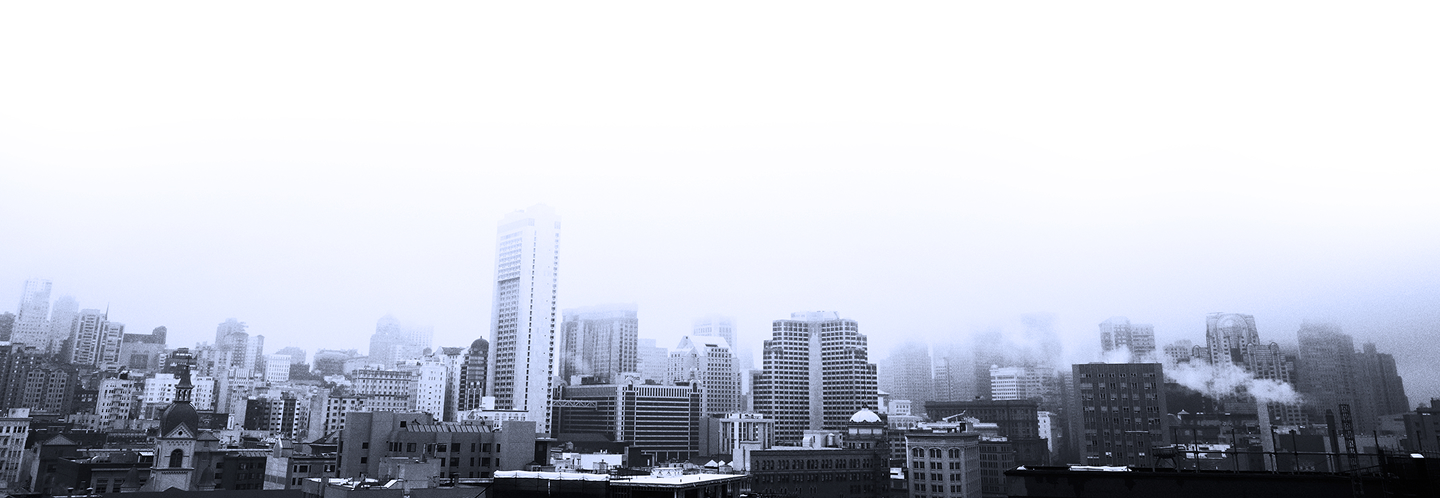
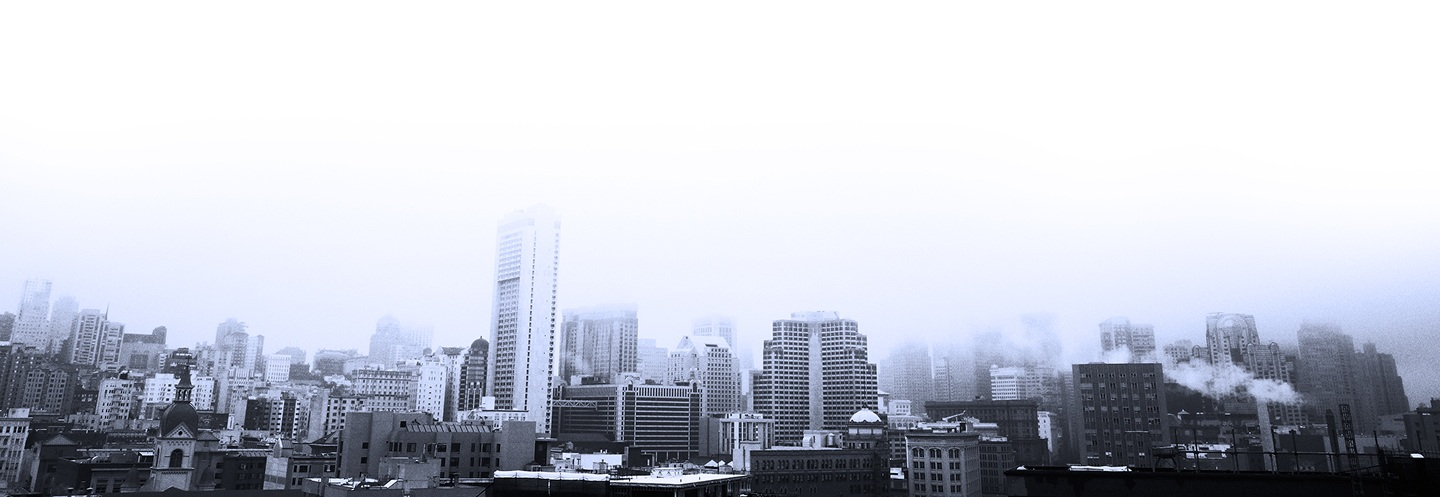
Сделан блок signup

Changed region(s): [[0.0, 0.5131, 1.0, 1.0], [0.9688, 0.7847, 1.0, 0.8451]]

diff --git a/styles/main.css b/styles/main.css
@@ -336,7 +336,7 @@ hr {
   display: flex;
   flex-direction: column;
   align-items: center;
-  background-position: center center;
+  background-position: center 100%;
 }
 
 .getintouch>h1 {
@@ -352,15 +352,51 @@ hr {
   line-height: 39px;
 }
 
+.signup {
+  width: 1440px !important;
+  height: 94px;
+  background: #171819;
+  display: flex;
+  justify-content: center;
+  align-items: center;
+}
+
+.signup>p {
+  font-family: var(--font-family-700);
+  font-size: 22px;
+  letter-spacing: 0.04em;
+  text-align: center;
+  color: #fff;
+  margin-right: 68px;
+}
+
+.signup>input {
+  border: 1px solid #979797;
+  width: 233px;
+  height: 40px;
+  font-family: var(--font-family);
+  font-size: 14px;
+  letter-spacing: 0.01em;
+  color: #48555b;
+  border: none;
+  padding-left: 16px;
+}
+
 @media screen and (max-width: 1440px) {
   .container {
     width: 80%;
   }
 
   .getintouch {
-    width: 99vw !important;
-    position: absolute;
-    left: -1px;
+    width: 100vw !important;
+    margin-left: calc(-50vw + 50%) !important;
+    left: 0;
+  }
+
+  .signup {
+    width: 100vw !important;
+    margin-left: calc(-50vw + 50%) !important;
+    left: 0;
   }
 }
 

diff --git a/index.html b/index.html
@@ -89,6 +89,11 @@
         <h1>Want to build something amazing?</h1>
         <button>get in touch</button>
       </div>
+      <div class="signup">
+        <p>Newsletter Signup</p>
+        <input type="text" placeholder="test@youremail.com" name="mail" />
+        <button>signup</button>
+      </div>
     </div>
   </div>
 </body>
